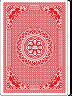
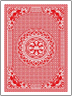
Kart arka yüzleri temizlendi; seçim penceresindeki sarı çerçeve kaldırıldı
Resimlerdeki sağ kenar siyah şeridi ve çift çizgi silindi, beyaz pay eşitlendi.
Seçili kart artık sarı zemin yerine seçim düğmesiyle gösteriliyor.

diff --git a/Forms/KartArkaYuzSecForm.cs b/Forms/KartArkaYuzSecForm.cs
@@ -32,24 +32,27 @@ namespace BricKartOyunu.Forms
                 int k = i;
                 var pb = new PictureBox
                 {
-                    Left = 30 + i * 150, Top = 40, Width = 110, Height = 150,
+                    // 102x136: kartın 3:4 oranıyla aynı, resmin çevresinde boşluk ya da renkli çerçeve kalmaz
+                    Left = 34 + i * 150, Top = 44, Width = 102, Height = 136,
                     SizeMode = PictureBoxSizeMode.Zoom,
                     Cursor = Cursors.Hand,
-                    Image = ResmiYukle(_dosyalar[i]),
-                    Padding = new Padding(4)
+                    Image = ResmiYukle(_dosyalar[i])
                 };
-                pb.Click += (s, e) => { Secilen = _dosyalar[k]; Vurgula(); };
-                pb.DoubleClick += (s, e) => { Secilen = _dosyalar[k]; DialogResult = DialogResult.OK; };
+                // Seçili kart, kartın altındaki seçim düğmesiyle gösterilir
+                var secim = new RadioButton { Text = _adlar[i], Left = pb.Left, Top = 188, Width = pb.Width, Height = 20, CheckAlign = ContentAlignment.MiddleLeft, Padding = new Padding(22, 0, 0, 0) };
+                secim.CheckedChanged += (s, e) => { if (secim.Checked) Secilen = _dosyalar[k]; };
+                secim.Checked = _dosyalar[i] == Secilen;
+                pb.Click += (s, e) => secim.Checked = true;
+                pb.DoubleClick += (s, e) => { secim.Checked = true; DialogResult = DialogResult.OK; };
                 _kutular[i] = pb;
                 Controls.Add(pb);
-                Controls.Add(new Label { Text = _adlar[i], Left = pb.Left, Top = 194, Width = pb.Width, TextAlign = ContentAlignment.MiddleCenter });
+                Controls.Add(secim);
             }
 
             var tamam = new Button { Text = "Tamam", Left = 160, Top = 216, Width = 75, DialogResult = DialogResult.OK };
             var iptal = new Button { Text = "İptal", Left = 241, Top = 216, Width = 75, DialogResult = DialogResult.Cancel };
             Controls.Add(tamam); Controls.Add(iptal);
             AcceptButton = tamam; CancelButton = iptal;
-            Vurgula();
         }
 
         private static Image ResmiYukle(string dosya)
@@ -62,12 +65,6 @@ namespace BricKartOyunu.Forms
                 using (var temp = Image.FromStream(fs)) return new Bitmap(temp);   // dosyayı kilitleme
             }
             catch { return null; }
-        }
-
-        private void Vurgula()
-        {
-            for (int i = 0; i < 2; i++)
-                _kutular[i].BackColor = (_dosyalar[i] == Secilen) ? Color.Gold : SystemColors.Control;
         }
 
         protected override void Dispose(bool disposing)
